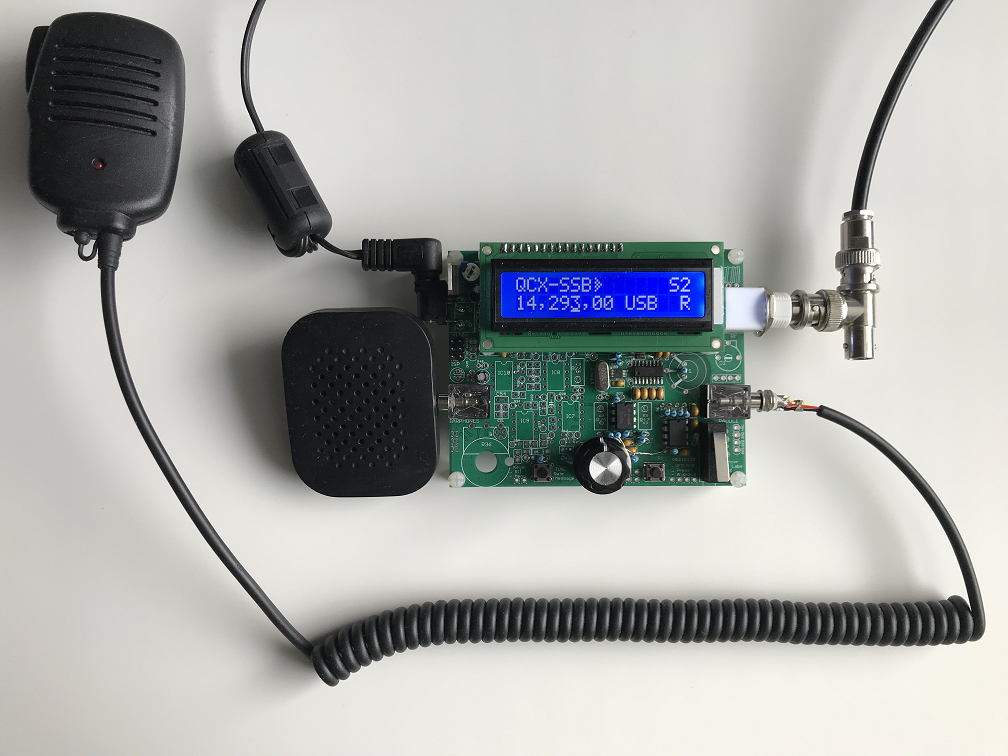
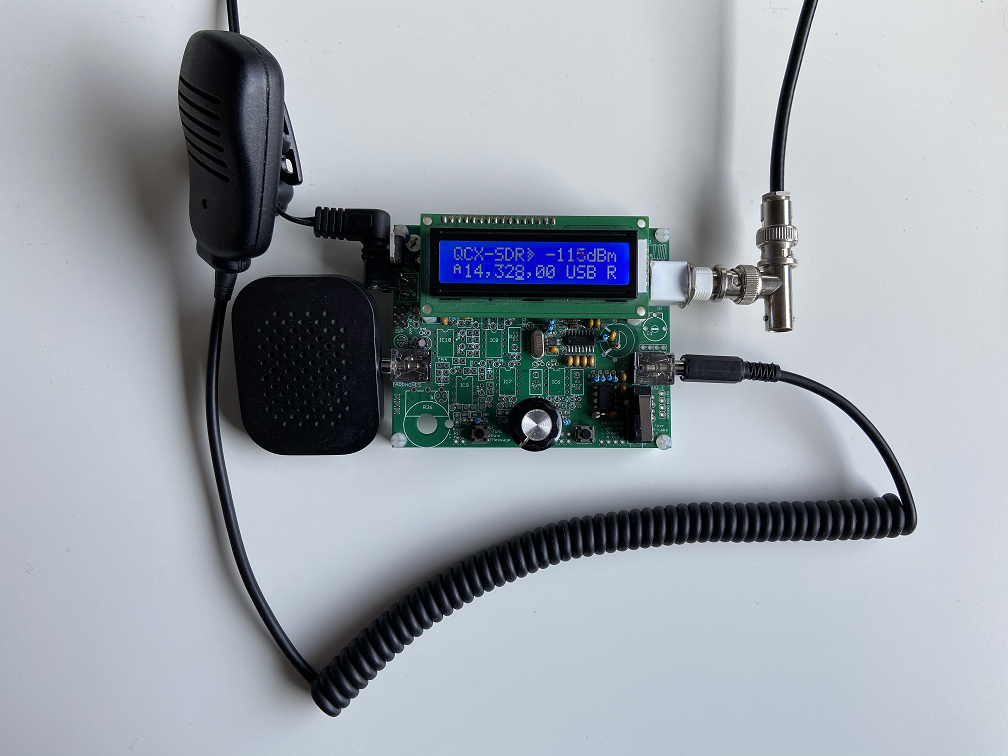
Added up-to-date PCB photos Changed default volume setting.

diff --git a/README.md b/README.md
@@ -3,7 +3,7 @@ This is a simple and experimental modification that transforms a [QCX] into a (C
 
 The SSB transmit-stage is implemented entirely in digital and software-based manner: at the heart the ATMEGA328P is sampling the input-audio and reconstructing a SSB-signal by controlling the SI5351 PLL phase (through tiny frequency changes over 800kbit/s I2C) and controlling the PA Power (through PWM on the key-shaping circuit). In this way a highly power-efficient class-E driven SSB-signal can be realized; a PWM driven class-E design keeps the SSB transceiver simple, tiny, cool, power-efficient and low-cost (ie. no need for power-inefficient and complex linear amplifier with bulky heat-sink as often is seen in SSB transceivers).
 
-For the receiver, a large portion of the original QCX circuit has been removed and implemented in digital manner (software): the ATMEGA328P is now implementing the 90 degree phase shift circuit, the (CW/SSB) filter circuit and the audio amplifier circuit (now a class-D amplifier). This has simplified the QCX circuit a lot (50% less components needed), and there are a number of advantages and features: there is no longer a need for an alignment procedure due to the very accurate 90 degree Hilbert phase shifter; and there are now adjustable IF DSP filters for CW and SSB; and there is an AGC and there is a noise-reducing DSP signal conditioning function and there are three indepent built-in attenuators in the analog front-end which helps utilizing the full dynamic range. The speaker is directly connected and driven by the ATMEGA. A digital mixer with narrow low-pass window (2 kHz), steep roll-off (-45dB/decade) combined with an oversampling and decimating ADC are responsible for a processing gain, dynamic range and alias rejection sufficient to handle weak and strong signal conditions (e.g. contests or listening on 40m just next to broadcasting band).  
+For the receiver, a large portion of the original QCX circuit has been removed and implemented in digital manner (software): the ATMEGA328P is now implementing the 90 degree phase shift circuit, the (CW/SSB) filter circuit and the audio amplifier circuit (now a class-D amplifier). This has simplified the QCX circuit a lot (50% less components needed), and there are a number of advantages and features: there is no longer a need for an alignment procedure due to the very accurate 90 degree Hilbert phase shifter; and there are now adjustable IF DSP filters for CW and SSB; and there is an AGC and there is a noise-reducing DSP signal conditioning function and there are three indepent built-in attenuators in the analog front-end which helps utilizing the full dynamic range. The speaker is directly connected and driven by the ATMEGA. A digital mixer with narrow low-pass window (2 kHz), steep roll-off (-45dB/decade) combined with an oversampling and decimating ADC are responsible for a processing gain, dynamic range and alias rejection sufficient to handle weak and strong signal conditions (e.g. contests or listening on 40m just next to broadcasting band).
 
 This experiment is created to try out what is can be achieved with minimal hardware while moving complexity towards software; here the approach followed is to simplify the design where possible while keep a reasonable performance. The result is a cheap, easy to build, versatile QRP SSB transceiver that actually is quite suitable for making QSOs (even in contest situations), however due to the experimental nature some parts are still in progress and hence limited. Feel free to try it out or to experiment with this sketch, let me know your thoughts or contribute here: https://github.com/threeme3/QCX-SSB  There is a forum discussion on the topic here: [QRPLabs Forum]
 
@@ -53,7 +53,7 @@ This modification consists of a few component changes and wires:
 - **To simplify things, 78 components are no longer needed** (and you could omit them on an unbuilt QCX): IC6-10,R11-40,43,55,R59-64,C1,5,8,C9-28,C31,52,53,L1-3,D5,Q7,T1,JP1/DVM/FREQ.
 - **SDR receiver**: change R7,10(82k); C4,C7(1nF), remove R11,12,14,15,17,27,29,59,IC10; wire IC2(pin15) to IC10(pin1); C39(R27/R29 side) to IC5(pin1); C40(IC10 side) to IC5(pin7), and disconnect R50(5V side) and R52(5V side) and wire both to IC2(pin21). Note on a QCX Rev5 you need to restore/insert manually the missing R49,50,53,C39 (see schematic). If you want to build-up the original (analog) QCX receiver, you can skip this step and insert a SPDT switch between C21(+ side) and IC9(pin1) for CW and R27(pin2) for SSB (as was done in [original QCX-SSB modification]).
 - **SSB transmitter**: change D4,R56 (10k); R58 (.22uF); C32 (10uF), remove C31; wire IC2(pin21) to pin R57(side DVM-pin3); wire IC2(pin20) to DVM(pin2); wire IC2(pin18) to junction D4-C42-R58; install a microphone to tip (+ of electret) and sleeve GND of paddle-jack; PTT-switch to ring and sleeve ([X1M-mic]).
-- **Multiband support**: remove C1,5,8,R64,T1; at T1 landing pattern (see [QCX Assembly instruction] T1) install R (1k) over 6-8; R (1k) over 3-4; C (10nF) over 4-8; C30 (30pF); L4 (1uH/16t); replace C25-28,L1-L3 with LPFs for different bands (e.g. [QRPLabs Low Pass Filter kit]).
+- **Multiband support**: remove C1,5,8,R64,T1; at T1 landing pattern (see [QCX Assembly instruction] T1) install R (1k) over 6-8; R (1k) over 3-4; C (10nF) over 4-8; change C30 (30pF); L4 (1uH/16t); replace C25-28,L1-L3 with LPFs for different bands (e.g. [QRPLabs Low Pass Filter kit]).
 
 **Firmware**: download [latest released hex file] and install with [standard QCX firmware upload procedure] (see also <sup>[note 1](#note1)</sup>).
 
@@ -63,6 +63,9 @@ Below the layout with components marked in red that needs to be changed; gray co
 Below the wires that needs to be installed on the bottom PCB. Note that a circle represents resistor R50/R52 that is in series with the wire and the pad at which the circle is drawn (the resistor is no longer connected to its original neighbour pad and its probably the best to place this wiring and resistor at the components side):
 ![pcb](pcb.png)
 
+See here the resulting modification (includes PA bias mod <sup>[note 3](#note3)</sup>, does not include LPFs):
+![](pcb-top.png)
+![](pcb-bottom.png)
 
 ## Operation:
 Currently, the following functions have been assigned to shortcut buttons (L=left, E=encoder, R=right) and menu-items:
